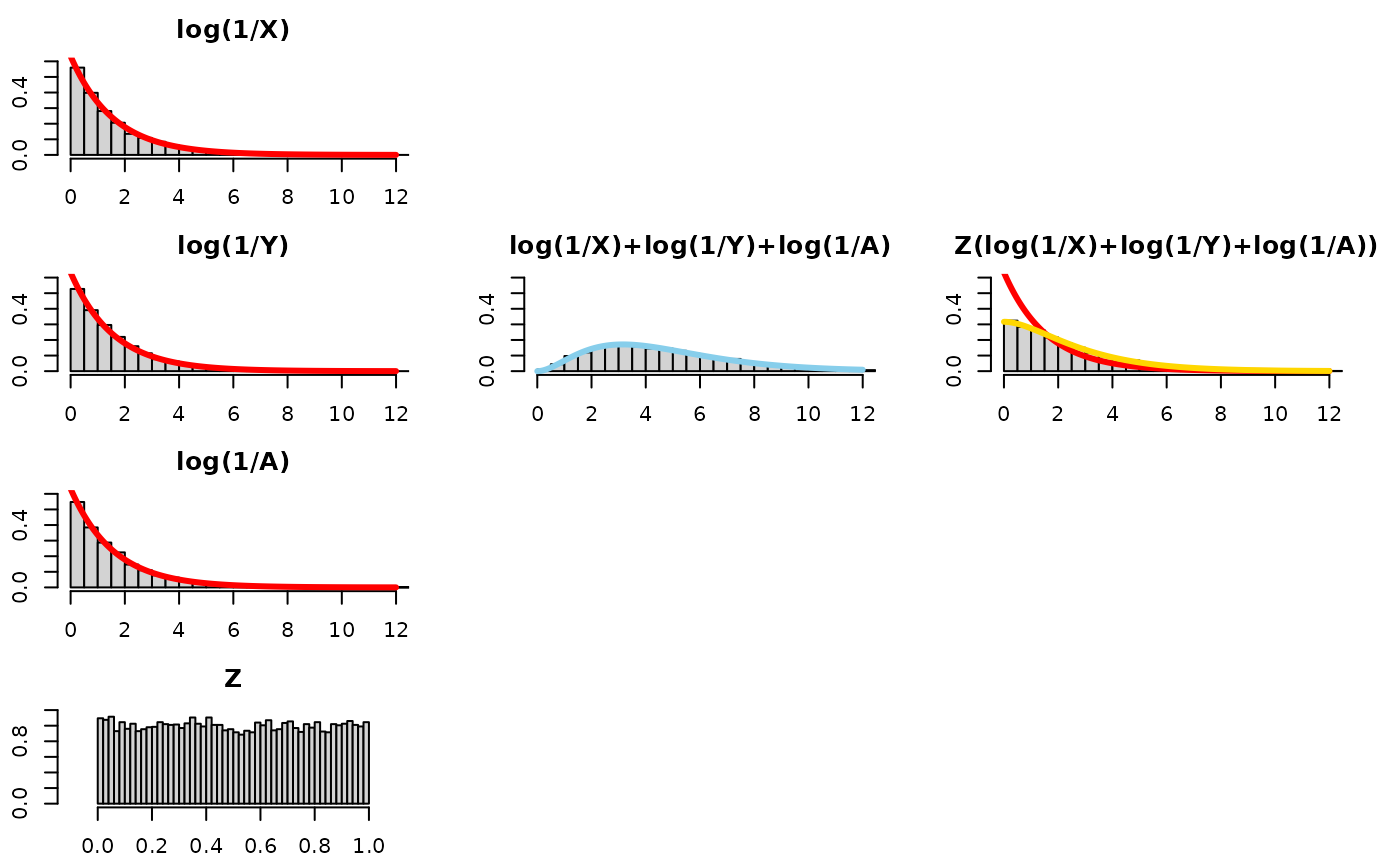
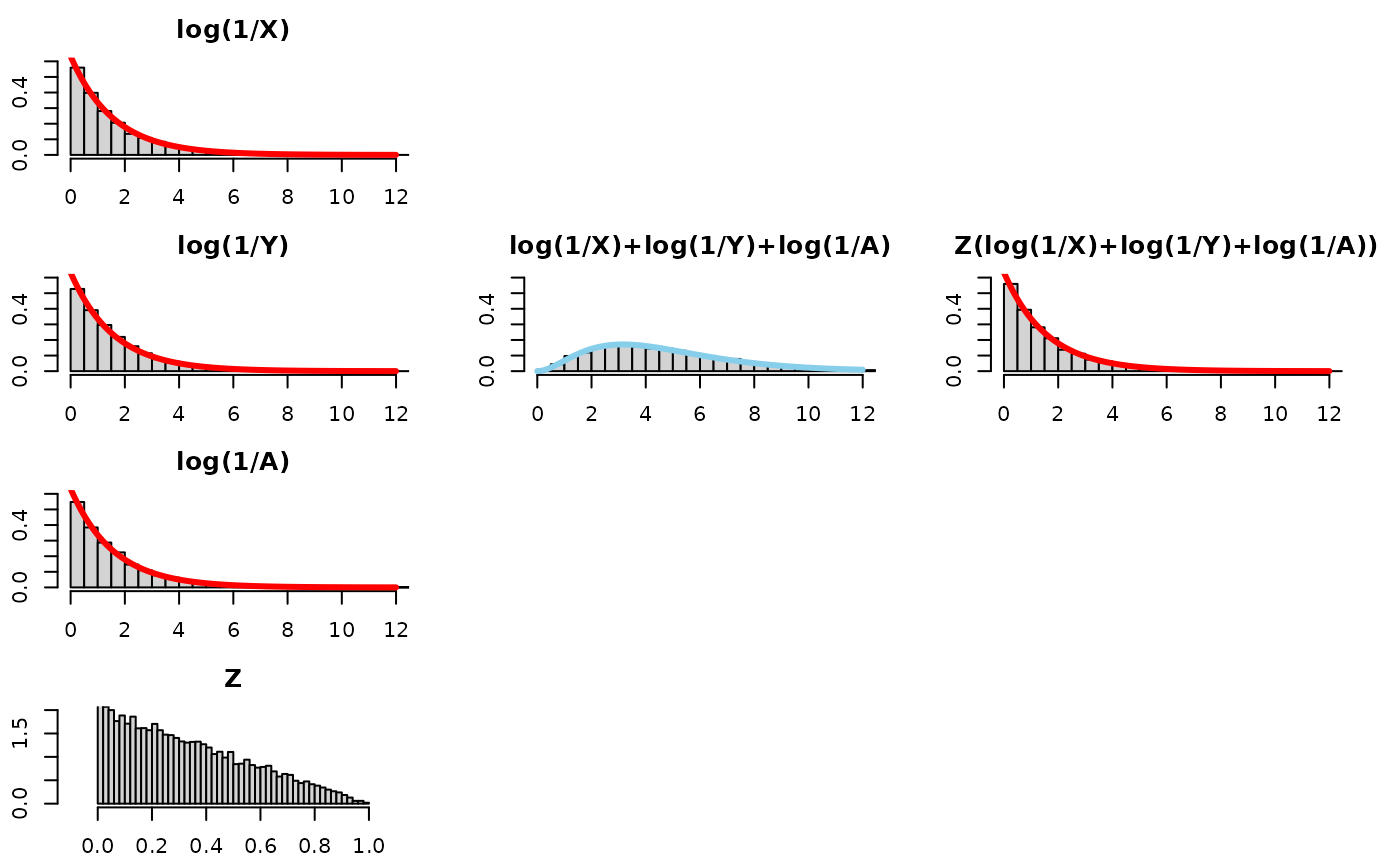
Deploying to gh-pages from @ swihart/mvpd@351e84611f7a0a8dfda89dc00ce966a22ae35ccf 🚀

diff --git a/articles/xy_to_the_z_part_i.html b/articles/xy_to_the_z_part_i.html
@@ -149,9 +149,56 @@ Exp(<math display="inline" xmlns="http://www.w3.org/1998/Math/MathML"><semantics
 </ul>
 </li>
 </ul>
-<hr>
 <p>Special
 <math display="inline" xmlns="http://www.w3.org/1998/Math/MathML"><semantics><mrow><mi>α</mi><mo>=</mo><mn>1</mn></mrow><annotation encoding="application/x-tex">\alpha = 1</annotation></semantics></math>
+instance:
+<math display="inline" xmlns="http://www.w3.org/1998/Math/MathML"><semantics><mrow><mi>X</mi><mo>,</mo><mi>Y</mi><mo>,</mo><mi>Z</mi></mrow><annotation encoding="application/x-tex">X,Y,Z</annotation></semantics></math>
+and
+<math display="inline" xmlns="http://www.w3.org/1998/Math/MathML"><semantics><mrow><msup><mrow><mo stretchy="true" form="prefix">(</mo><mi>X</mi><mi>Y</mi><mo stretchy="true" form="postfix">)</mo></mrow><mi>Z</mi></msup><mo>∼</mo></mrow><annotation encoding="application/x-tex">(XY)^Z  \sim</annotation></semantics></math>
+U(0,1) (because Beta(1, 1) is U(0,1)).</p>
+<hr>
+<p>Later we will generalize this to the sum of K Exponentials. Right
+now, let’s just keep it to 2 to build intuition.</p>
+<p>SUM K</p>
+<p>For iid
+<math display="inline" xmlns="http://www.w3.org/1998/Math/MathML"><semantics><mrow><msub><mi>X</mi><mi>k</mi></msub><mo>∼</mo></mrow><annotation encoding="application/x-tex">X_k \sim</annotation></semantics></math>
+Beta(<math display="inline" xmlns="http://www.w3.org/1998/Math/MathML"><semantics><mi>α</mi><annotation encoding="application/x-tex">\alpha</annotation></semantics></math>,
+1),
+<math display="inline" xmlns="http://www.w3.org/1998/Math/MathML"><semantics><mrow><mi>k</mi><mo>=</mo><mn>1</mn><mo>,</mo><mi>.</mi><mi>.</mi><mi>.</mi><mo>,</mo><mi>K</mi><mo>,</mo><mi>K</mi><mo>∈</mo><mrow><mn>1</mn><mo>,</mo><mn>2</mn><mo>,</mo><mi>.</mi><mi>.</mi><mi>.</mi></mrow></mrow><annotation encoding="application/x-tex">k=1,...,K, K \in {1,2,...}</annotation></semantics></math>
+and independent
+<math display="inline" xmlns="http://www.w3.org/1998/Math/MathML"><semantics><mrow><mi>Z</mi><mo>∼</mo><mi>B</mi><mi>e</mi><mi>t</mi><mi>a</mi><mrow><mo stretchy="true" form="prefix">(</mo><mn>1</mn><mo>,</mo><mi>K</mi><mo>−</mo><mn>1</mn><mo stretchy="true" form="postfix">)</mo></mrow></mrow><annotation encoding="application/x-tex">Z \sim Beta(1,K-1)</annotation></semantics></math>,
+where Beta(1,0) is the point mass / constant 1, and Beta(1,1) is the
+Uniform(0,1).</p>
+<p><strong>Result 1</strong>:</p>
+<ul>
+<li>
+<math display="inline" xmlns="http://www.w3.org/1998/Math/MathML"><semantics><mrow><msup><mrow><mo stretchy="true" form="prefix">(</mo><mo>∏</mo><msub><mi>X</mi><mi>k</mi></msub><mo stretchy="true" form="postfix">)</mo></mrow><mi>Z</mi></msup><mo>∼</mo></mrow><annotation encoding="application/x-tex">(\prod X_k)^Z  \sim</annotation></semantics></math>
+Beta(<math display="inline" xmlns="http://www.w3.org/1998/Math/MathML"><semantics><mi>α</mi><annotation encoding="application/x-tex">\alpha</annotation></semantics></math>,
+1)
+<ul>
+<li>Which implies
+<math display="inline" xmlns="http://www.w3.org/1998/Math/MathML"><semantics><mrow><mi>Z</mi><mrow><mo stretchy="true" form="prefix">(</mo><mo>∑</mo><mo>log</mo><msub><mi>X</mi><mi>k</mi></msub><mo stretchy="true" form="postfix">)</mo></mrow><mo>∼</mo></mrow><annotation encoding="application/x-tex">Z \left( \sum \log X_k \right) \sim</annotation></semantics></math>
+ReflectedExp(<math display="inline" xmlns="http://www.w3.org/1998/Math/MathML"><semantics><mi>α</mi><annotation encoding="application/x-tex">\alpha</annotation></semantics></math>)</li>
+</ul>
+</li>
+</ul>
+<p><strong>Result 2</strong>:</p>
+<ul>
+<li>
+<math display="inline" xmlns="http://www.w3.org/1998/Math/MathML"><semantics><mrow><msup><mrow><mo stretchy="true" form="prefix">(</mo><mo>∏</mo><mfrac><mn>1</mn><msub><mi>X</mi><mi>k</mi></msub></mfrac><mo stretchy="true" form="postfix">)</mo></mrow><mi>Z</mi></msup><mo>∼</mo></mrow><annotation encoding="application/x-tex">\left( \prod \frac{1}{X_k} \right)^Z  \sim</annotation></semantics></math>
+Pareto(<math display="inline" xmlns="http://www.w3.org/1998/Math/MathML"><semantics><mrow><msub><mi>x</mi><mi>m</mi></msub><mo>=</mo><mn>1</mn></mrow><annotation encoding="application/x-tex">x_m=1</annotation></semantics></math>,
+<math display="inline" xmlns="http://www.w3.org/1998/Math/MathML"><semantics><mrow><msub><mi>α</mi><mi>m</mi></msub><mo>=</mo><mi>α</mi></mrow><annotation encoding="application/x-tex">\alpha_m = \alpha</annotation></semantics></math>)
+<ul>
+<li>Which implies
+<math display="inline" xmlns="http://www.w3.org/1998/Math/MathML"><semantics><mrow><mi>Z</mi><mrow><mo stretchy="true" form="prefix">(</mo><mo>∑</mo><mo>log</mo><mfrac><mn>1</mn><msub><mi>X</mi><mi>k</mi></msub></mfrac><mo stretchy="true" form="postfix">)</mo></mrow><mo>∼</mo></mrow><annotation encoding="application/x-tex">Z \left( \sum \log \frac{1}{X_k} \right) \sim</annotation></semantics></math>
+Exp(<math display="inline" xmlns="http://www.w3.org/1998/Math/MathML"><semantics><mi>α</mi><annotation encoding="application/x-tex">\alpha</annotation></semantics></math>)</li>
+</ul>
+</li>
+</ul>
+<p>Special
+<math display="inline" xmlns="http://www.w3.org/1998/Math/MathML"><semantics><mrow><mi>α</mi><mo>=</mo><mn>1</mn></mrow><annotation encoding="application/x-tex">\alpha = 1</annotation></semantics></math>
+and
+<math display="inline" xmlns="http://www.w3.org/1998/Math/MathML"><semantics><mrow><mi>K</mi><mo>=</mo><mn>2</mn></mrow><annotation encoding="application/x-tex">K=2</annotation></semantics></math>
 instance:
 <math display="inline" xmlns="http://www.w3.org/1998/Math/MathML"><semantics><mrow><mi>X</mi><mo>,</mo><mi>Y</mi><mo>,</mo><mi>Z</mi></mrow><annotation encoding="application/x-tex">X,Y,Z</annotation></semantics></math>
 and
@@ -578,56 +625,75 @@ that average to a 1/3. Let’s replace
 <p>While that was fun, this modification (shortening the range of the
 uniform) does not quite seem to “recover” the distribution of
 log(1/x).</p>
-<p>This is where turning to theory might save us some time.</p>
-<!-- Green note book page 88 and 89 -->
-<ul>
-<li><p>The sum of 3 iid
-Exponential(<math display="inline" xmlns="http://www.w3.org/1998/Math/MathML"><semantics><mi>α</mi><annotation encoding="application/x-tex">\alpha</annotation></semantics></math>)
-variables will be distributed as
-Gamma(3,<math display="inline" xmlns="http://www.w3.org/1998/Math/MathML"><semantics><mi>α</mi><annotation encoding="application/x-tex">\alpha</annotation></semantics></math>).</p></li>
-<li><p>If W ~ Gamma(3,lambda) then cW ~ Gamma(3, lambda/c)</p></li>
-<li>
-<p>I’ll leave it as an exercise for the reader, but the two best
-hopes for a choice of distribution for Z in trying to get the computed
-quantity back to the original Exponential is Z ~ U(0,1) or Z ~
-Beta(2,1). Either case ends up with Z(log(1/X)+log(1/Y)+log(1/A)) having
-a density that looks like an exponential density multiplied by extra
-stuff:</p>
-<ul>
-<li><p><math display="inline" xmlns="http://www.w3.org/1998/Math/MathML"><semantics><mrow><mi>λ</mi><msup><mi>e</mi><mrow><mo>−</mo><mi>λ</mi><mi>x</mi></mrow></msup><mo>×</mo><mrow><mo stretchy="true" form="prefix">[</mo><mfrac><mrow><mn>1</mn><mo>+</mo><mi>λ</mi><mi>x</mi></mrow><mn>2</mn></mfrac><mo stretchy="true" form="postfix">]</mo></mrow></mrow><annotation encoding="application/x-tex">\lambda e^{-\lambda x} \times \left[ \frac{1+ \lambda x}{2} \right]</annotation></semantics></math>
-or</p></li>
-<li><p><math display="inline" xmlns="http://www.w3.org/1998/Math/MathML"><semantics><mrow><mi>λ</mi><msup><mi>e</mi><mrow><mo>−</mo><mi>λ</mi><mi>x</mi></mrow></msup><mo>×</mo><mrow><mo stretchy="true" form="prefix">[</mo><mi>λ</mi><mi>x</mi><mo stretchy="true" form="postfix">]</mo></mrow></mrow><annotation encoding="application/x-tex">\lambda e^{-\lambda x} \times \left[ \lambda x \right]</annotation></semantics></math></p></li>
-<li>
-</li>
-</ul>
-</li>
-<li><p>A Gamma distribution times a Gamma distribution will result in an
-exponential distribution if the shape parameter of both Gamma
-distributions is 1, and their rate parameters are the same. In other
-words, if X ~ Gamma(1, λ) and Y ~ Gamma(1, λ), then their product X*Y ~
-Exponential(λ).</p></li>
-<li><p>Therefore
-<math display="inline" xmlns="http://www.w3.org/1998/Math/MathML"><semantics><mrow><mi>G</mi><mi>a</mi><mi>m</mi><mi>m</mi><mi>a</mi><mrow><mo stretchy="true" form="prefix">(</mo><mn>3</mn><mo>,</mo><mi>α</mi><mo stretchy="true" form="postfix">)</mo></mrow></mrow><annotation encoding="application/x-tex">Gamma(3,\alpha )</annotation></semantics></math>
-cannot be transformed into
-<math display="inline" xmlns="http://www.w3.org/1998/Math/MathML"><semantics><mrow><mi>E</mi><mi>x</mi><mi>p</mi><mi>o</mi><mi>n</mi><mi>e</mi><mi>n</mi><mi>t</mi><mi>i</mi><mi>a</mi><mi>l</mi><mrow><mo stretchy="true" form="prefix">(</mo><mi>α</mi><mo stretchy="true" form="postfix">)</mo></mrow></mrow><annotation encoding="application/x-tex">Exponential(\alpha )</annotation></semantics></math>.
-<math display="inline" xmlns="http://www.w3.org/1998/Math/MathML"><semantics><mrow><mi>G</mi><mi>a</mi><mi>m</mi><mi>m</mi><mi>a</mi><mrow><mo stretchy="true" form="prefix">(</mo><mn>1</mn><mo>,</mo><mi>α</mi><mo stretchy="true" form="postfix">)</mo></mrow></mrow><annotation encoding="application/x-tex">Gamma(1,\alpha )</annotation></semantics></math>
-is equal to
-<math display="inline" xmlns="http://www.w3.org/1998/Math/MathML"><semantics><mrow><mi>E</mi><mi>x</mi><mi>p</mi><mi>o</mi><mi>n</mi><mi>e</mi><mi>n</mi><mi>t</mi><mi>i</mi><mi>a</mi><mi>l</mi><mrow><mo stretchy="true" form="prefix">(</mo><mi>α</mi><mo stretchy="true" form="postfix">)</mo></mrow></mrow><annotation encoding="application/x-tex">Exponential(\alpha )</annotation></semantics></math>.</p></li>
-</ul>
-<p>One can tinker and see how close they can get but the theory says it
-will be inexact.</p>
-<ul>
-<li>go through green books examples of trying to isolate the ‘x’ and
-showing that it is going to show up either way for n=3 and then
-plot!</li>
-</ul>
-<pre><code><span><span class="co">#&gt; [1] 0.4975932</span></span></code></pre>
+<p>There’s another way to get Z to be “1/3 on average”. That is, we
+could draw two uniforms, V ~ uniform(0,1) and W ~ uniform(0,1) and let
+Z=min(V,W). This is the same as letting Z ~
+beta(1,<strong>3</strong>-1). The <strong>3</strong> is bolded, because
+this is the number of exponentials we’re summing, and it generalizes to
+any positive integer.</p>
+<pre><code><span><span class="co">#&gt; [1] 0.3295565</span></span></code></pre>
 <p><img src="xy_to_the_z_part_i_files/figure-html/unnamed-chunk-21-1.png" width="700"></p>
-<!-- See page 90 of green notebook. 2025-05-22. -->
-<p>One can even try Z ~ InverseGamma(.9,.2), but the computed quantity
-is never going to be an Exponential.</p>
-<pre><code><span><span class="co">#&gt; [1] 4.37813</span></span></code></pre>
+<ul>
+<li>nailed it!</li>
+</ul>
+<p>Let’s try it for summing 10 exponentials.</p>
+<p>This means we need Z to be “1/10 on average”. That is, we could draw
+9 uniforms let Z be the minimum of those 9 uniforms. This is the same as
+letting Z ~ beta(1,<strong>10</strong>-1). The <strong>10</strong> is
+bolded, because this is the number of exponentials we’re summing, and it
+generalizes to any positive integer.</p>
+<p>Be mindful of the x-axis and y-axis limits – they are not the same
+for every plot!</p>
+<pre><code><span><span class="co">#&gt; [1] 0.0997494</span></span></code></pre>
 <p><img src="xy_to_the_z_part_i_files/figure-html/unnamed-chunk-22-1.png" width="700"></p>
+<!-- This is where turning to theory might save us some time. -->
+<!-- <!-- Green note book page 88 and 89 -->
+<p>–&gt;</p>
+<!--   * The sum of 3 iid Exponential($\alpha$) variables will be distributed as Gamma(3,$\alpha$). -->
+<!--   * If W ~ Gamma(3,lambda) then cW ~ Gamma(3, lambda/c) -->
+<!--   * I'll leave it as an exercise for the reader, but the two best hopes for a choice of distribution for Z in trying to get the computed quantity back to the original Exponential is Z ~ U(0,1) or Z ~ Beta(2,1).  Either case ends up with Z(log(1/X)+log(1/Y)+log(1/A)) having a density that looks like an exponential density multiplied by extra stuff: -->
+<!--     * $\lambda e^{-\lambda x} \times \left[ \frac{1+ \lambda x}{2} \right]$ or -->
+<!--     * $\lambda e^{-\lambda x} \times \left[ \lambda x \right]$ -->
+<!-- For kicks, I googled this problem of transforming Gamma(3,a) into Gamma(1,a) and got this from the AI results: -->
+<!--   * A Gamma distribution times a Gamma distribution will result in an exponential distribution if the shape parameter of both Gamma distributions is 1, and their rate parameters are the same. In other words, if X ~ Gamma(1, λ) and Y ~ Gamma(1, λ), then their product X*Y ~ Exponential(λ).  -->
+<!--   * Therefore \(Gamma(3,\alpha )\) cannot be transformed into \(Exponential(\alpha )\). \(Gamma(1,\alpha )\) is equal to \(Exponential(\alpha )\). -->
+<!-- One can tinker and see how close they can get but the theory says it will be inexact. -->
+<!--   * go through green books examples of trying to isolate the 'x' and showing that it is going to show up either way for n=3 and then plot! -->
+<pre><code><span><span class="co">#&gt; [1] 0.4975932</span></span></code></pre>
+<p><img src="xy_to_the_z_part_i_files/figure-html/unnamed-chunk-23-1.png" width="700"></p>
+<p>See page 90 of green notebook. 2025-05-22.</p>
+<p>As an exercize, one can solve for the density if Z is
+InverseGamma(az,bz) and then try to select az,bz &gt;0 that gives the
+closest match to an exponential density.</p>
+<p>One can even try Z ~ InverseGamma(.9,.2) (below), but the computed
+quantity is never going to be an Exponential. So I guess the sum of two
+exponentials involved in this result is special and doesn’t generalize
+to 3, i.e., while (XY)^Z is Uniform, (XYA)^Z won’t be.</p>
+<pre><code><span><span class="co">#&gt; [1] 4.37813</span></span></code></pre>
+<p><img src="xy_to_the_z_part_i_files/figure-html/unnamed-chunk-24-1.png" width="700"></p>
+<p>But wait! Dr. Mihai Nica saves the day again. If Z is min of two
+uniforms, then the relation will hold for sum of three exponentials with
+a commmon rate! <a href="follow-up%20vid">https://www.youtube.com/watch?v=Zx5T_IrNhUE</a></p>
+<ul>
+<li>Z~min(V,W) where V,W iid U(0,1)</li>
+<li>wait… that just makes Z ~ beta(1,2)</li>
+</ul>
+<pre><code><span><span class="co">#&gt; [1] 0.3308208</span></span></code></pre>
+<p><img src="xy_to_the_z_part_i_files/figure-html/unnamed-chunk-25-1.png" width="700"></p>
+<ul>
+<li>What about 5 exponentials?</li>
+<li>do I take the min of 4 uniforms?</li>
+<li>Z~min(m,n,o,p) where m,n,o,p iid U(0,1)</li>
+<li>wait… that just makes Z ~ beta(1,4)</li>
+</ul>
+<pre><code><span><span class="co">#&gt; [1] 0.2001201</span></span></code></pre>
+<p><img src="xy_to_the_z_part_i_files/figure-html/unnamed-chunk-26-1.png" width="700"></p>
+<ul>
+<li>max(V,W)^B … I can’t get it to work. is it for the other computed
+quantity (xy)^Z?? remember the code below is for (1/x * 1/y)^z</li>
+</ul>
+<pre><code><span><span class="co">#&gt; [1] 0.6668294</span></span></code></pre>
+<p><img src="xy_to_the_z_part_i_files/figure-html/unnamed-chunk-27-1.png" width="700"></p>
 <div class="section level4">
 <h4 id="miscellany-notes-to-self-stubs-for-future-ideas">Miscellany / Notes to self / Stubs for future ideas<a class="anchor" aria-label="anchor" href="#miscellany-notes-to-self-stubs-for-future-ideas"></a>
 </h4>

diff --git a/articles/deep_dive_kolm.html b/articles/deep_dive_kolm.html
@@ -351,7 +351,7 @@ the denominators, and then take the square root of that sum.</p>
 <span><span class="va">rkdraw</span> <span class="op">&lt;-</span> <span class="fu"><a href="../reference/rkolm.html">rkolm</a></span><span class="op">(</span><span class="fl">5e4</span>, nterms<span class="op">=</span><span class="fl">5e2</span><span class="op">)</span></span>
 <span><span class="va">end</span> <span class="op">&lt;-</span> <span class="fu"><a href="https://rdrr.io/r/base/Sys.time.html" class="external-link">Sys.time</a></span><span class="op">(</span><span class="op">)</span></span>
 <span><span class="va">end</span><span class="op">-</span><span class="va">beg</span></span>
-<span><span class="co">#&gt; Time difference of 0.8820922 secs</span></span>
+<span><span class="co">#&gt; Time difference of 0.8872275 secs</span></span>
 <span></span>
 <span><span class="co">## Expected value</span></span>
 <span><span class="fu"><a href="https://rdrr.io/r/base/print.html" class="external-link">print</a></span><span class="op">(</span><span class="fu"><a href="https://rdrr.io/r/base/matrix.html" class="external-link">matrix</a></span><span class="op">(</span><span class="fu"><a href="https://rdrr.io/r/base/c.html" class="external-link">c</a></span><span class="op">(</span></span>
